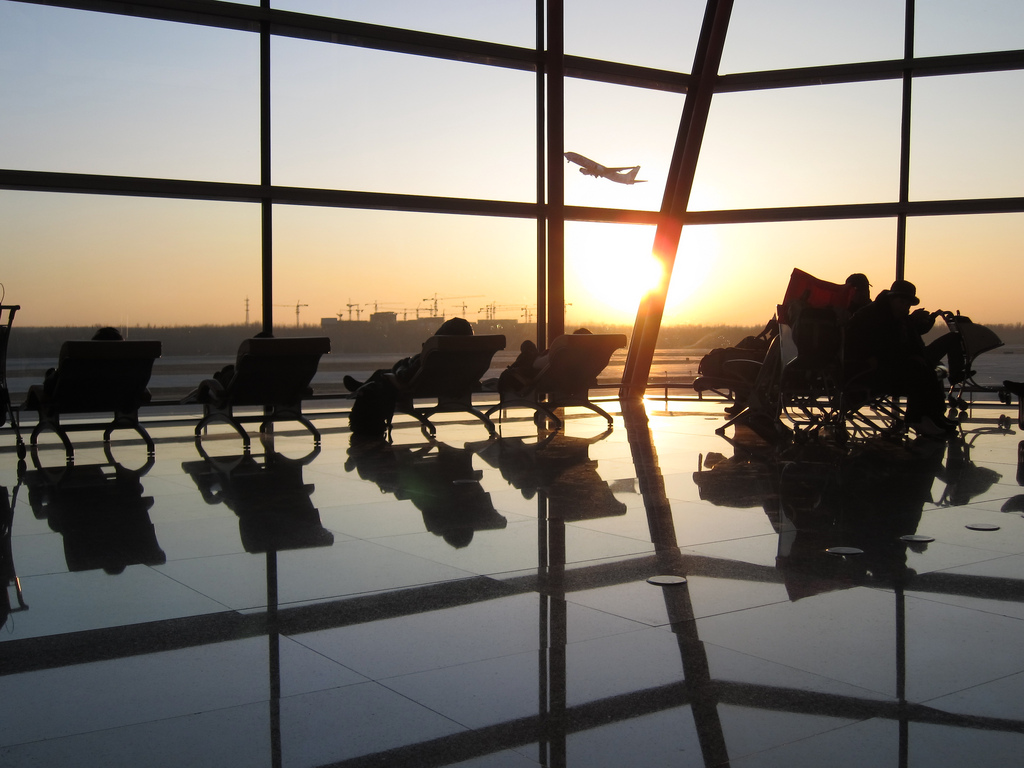
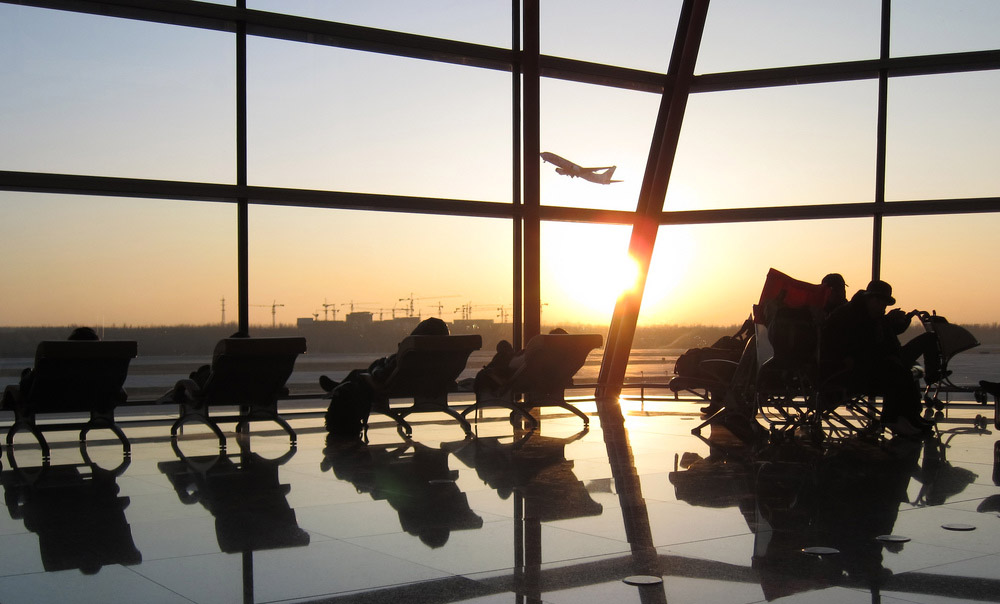
更换首页图片

diff --git a/flight_manage/WebContent/css/index.css b/flight_manage/WebContent/css/index.css
@@ -18,7 +18,8 @@ nav {
 }
 
 footer {
-	background-color: white;
+	background-color: transparent;
+	color: white;
 	position: absolute;
 	bottom: 0px;
 	left: 0px;
@@ -46,14 +47,19 @@ footer {
 }
 @media (max-width: 767px){
 	.carousel-inner > div {
-		background-position: 31% 0%;
+		background-position: 50% 50%;
 		background-size: cover;
 		background-repeat: no-repeat no-repeat;
 		height: 500px;
 	}
 	#box-flight {
-		position: relative;
-		top: -270px;
+		position: absolute;
+	    bottom: 100px;
+	    width: 100%;
+	}
+	#box-search {
+		margin-left: 10%;
+		width: 80% !important;
 	}
 }
 .carousel-inner > div:nth-child(1) {
@@ -74,5 +80,7 @@ footer {
 }
 #box-search li {
 	padding: 0px;
-	
+}
+.form-control {
+	display: inline !important;
 }

diff --git a/flight_manage/WebContent/index.html b/flight_manage/WebContent/index.html
@@ -165,6 +165,6 @@
     <script type="text/javascript" src="js/bootstrap-datetimepicker.min.js"></script>
     <script type="text/javascript" src="js/locales/bootstrap-datetimepicker.zh-CN.js"></script>
     <script type="text/javascript" src="js/public.js"></script>
-    <script type="text/javascript" src="https://api.thinkpage.cn/v3/weather/now.json?key=hoqbrzywjm37qvzd&location=changsha"></script>
+    <script type="text/javascript" src="js/index.js"></script>
   </body>
 </html>

diff --git a/flight_manage/WebContent/js/index.js b/flight_manage/WebContent/js/index.js
@@ -1,0 +1,6 @@
+$(window).resize(function () {
+	$('.item').height($(window).height() - $('nav').height());
+});
+$(function () {
+	$('.item').height($(window).height() - $('nav').height());
+})
